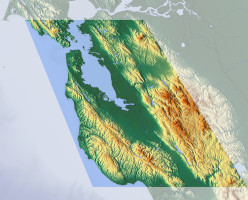
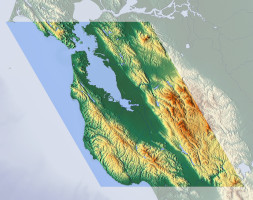
updated bay area image to be a proper parallelogram

diff --git a/index.html b/index.html
@@ -58,16 +58,16 @@ identifications should be taken as my opinion and not authoritative.</p>
 <p>The BAWG is primarily for me, secondarily for you.  You can use it as
 a reference if you like, but I hope you don&rsquo;t use it as your
 sole reference.</p>
+<p>Only wildflowers are covered, not cultivated flowers.  I&rsquo;ve also
+started including taxons other than flowering plants here, but in much
+smaller numbers and lesser detail.</p>
 <p>The BAWG covers the San Francisco Bay Area, from the Pacific coast to
 corners including Mt. Tamalpais, Mt. Diablo, San Luis Reservoir, and
 Santa Cruz.  Some areas outside those bounds are also covered,
 particularly Pinnacles National Park.  The gravitational center for my
 observations is probably somewhere around Cupertino.</p>
-<p>Only wildflowers are covered, not cultivated flowers.  I&rsquo;ve also
-started including taxons other than flowering plants here, but in much
-smaller numbers and lesser detail.</p>
-<p>I have a <a href="html/general-glossary.html">glossary</a>.</p>
 <p><a href="gallery.html?home"><img src="figures/bay-area-small.jpg" height="200"></a></p>
+<p>I have <a href="html/general-glossary.html">glossaries</a>.</p>
 <h2>Other Resources</h2>
 <p>Primary references include
 <a target="_blank" rel="noopener noreferrer" href="https://www.inaturalist.org/">iNaturalist</a>,

diff --git a/sw.js b/sw.js
@@ -1,5 +1,5 @@
 'use strict';
-var upd_timestamp = '2022-07-01T06:06:56.724854+00:00';
+var upd_timestamp = '2022-07-01T06:14:07.936518+00:00';
 var upd_num_urls = 7635;
 var upd_kb_total = 828333
 const DB_NAME = 'db-v1';
